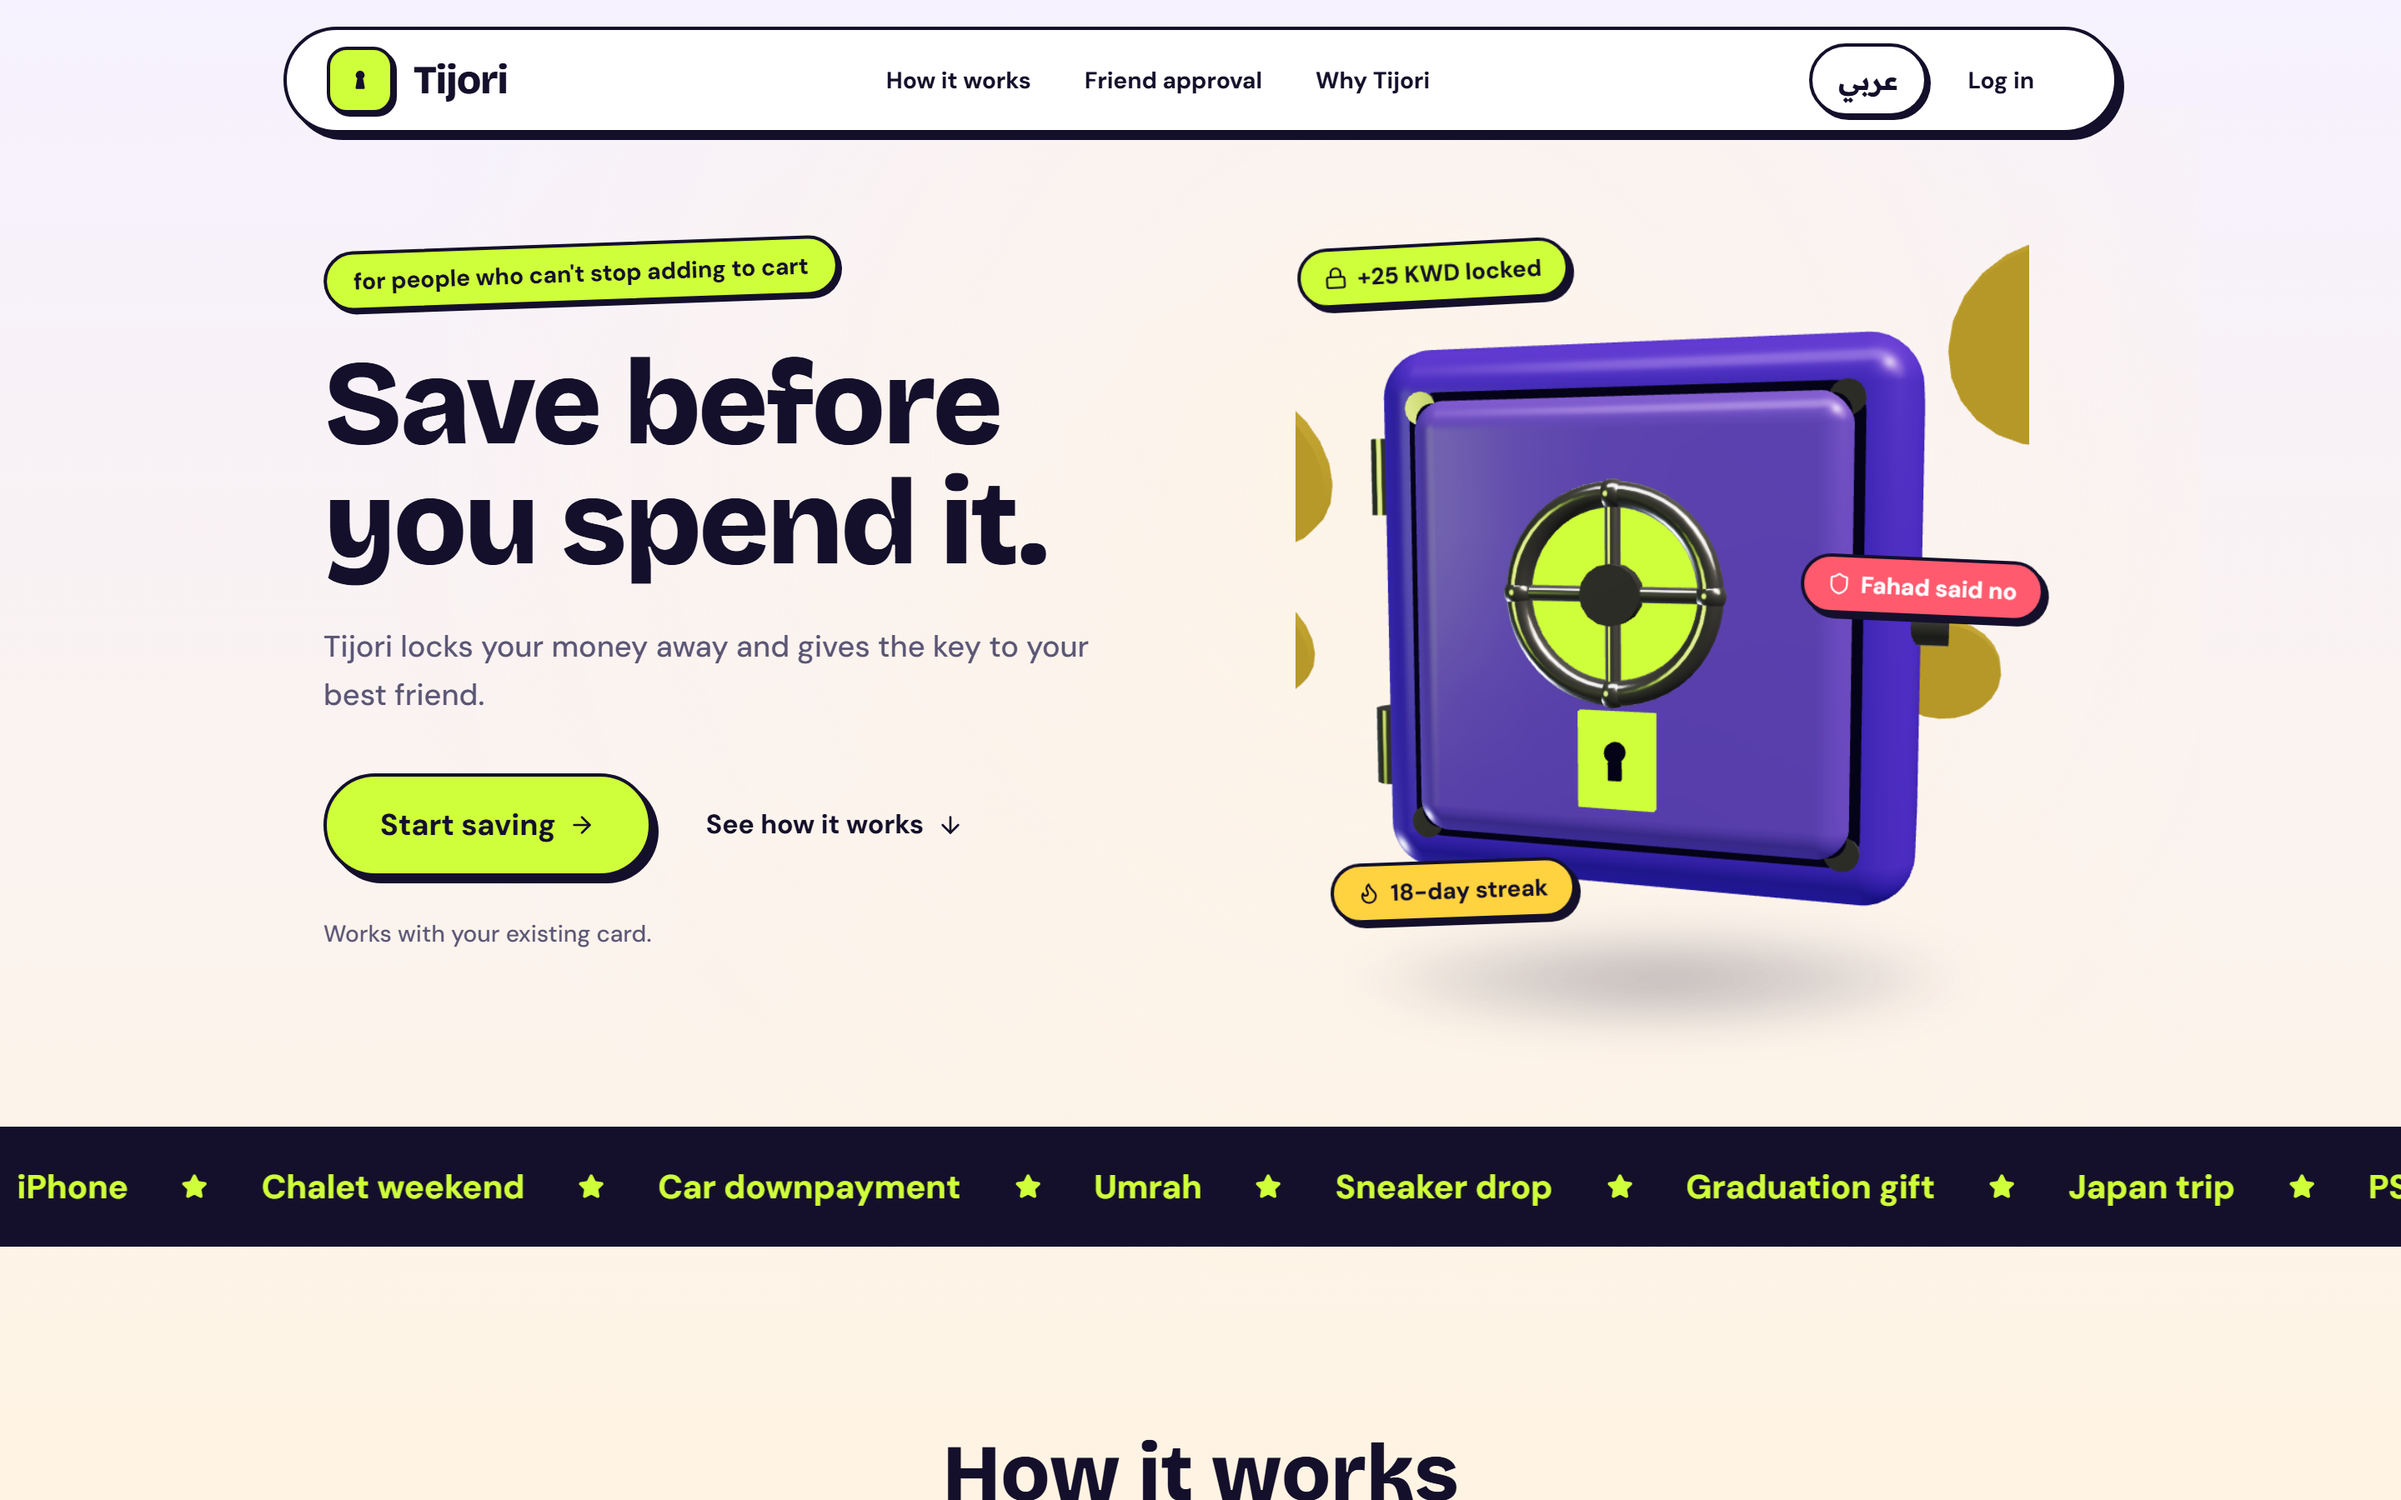
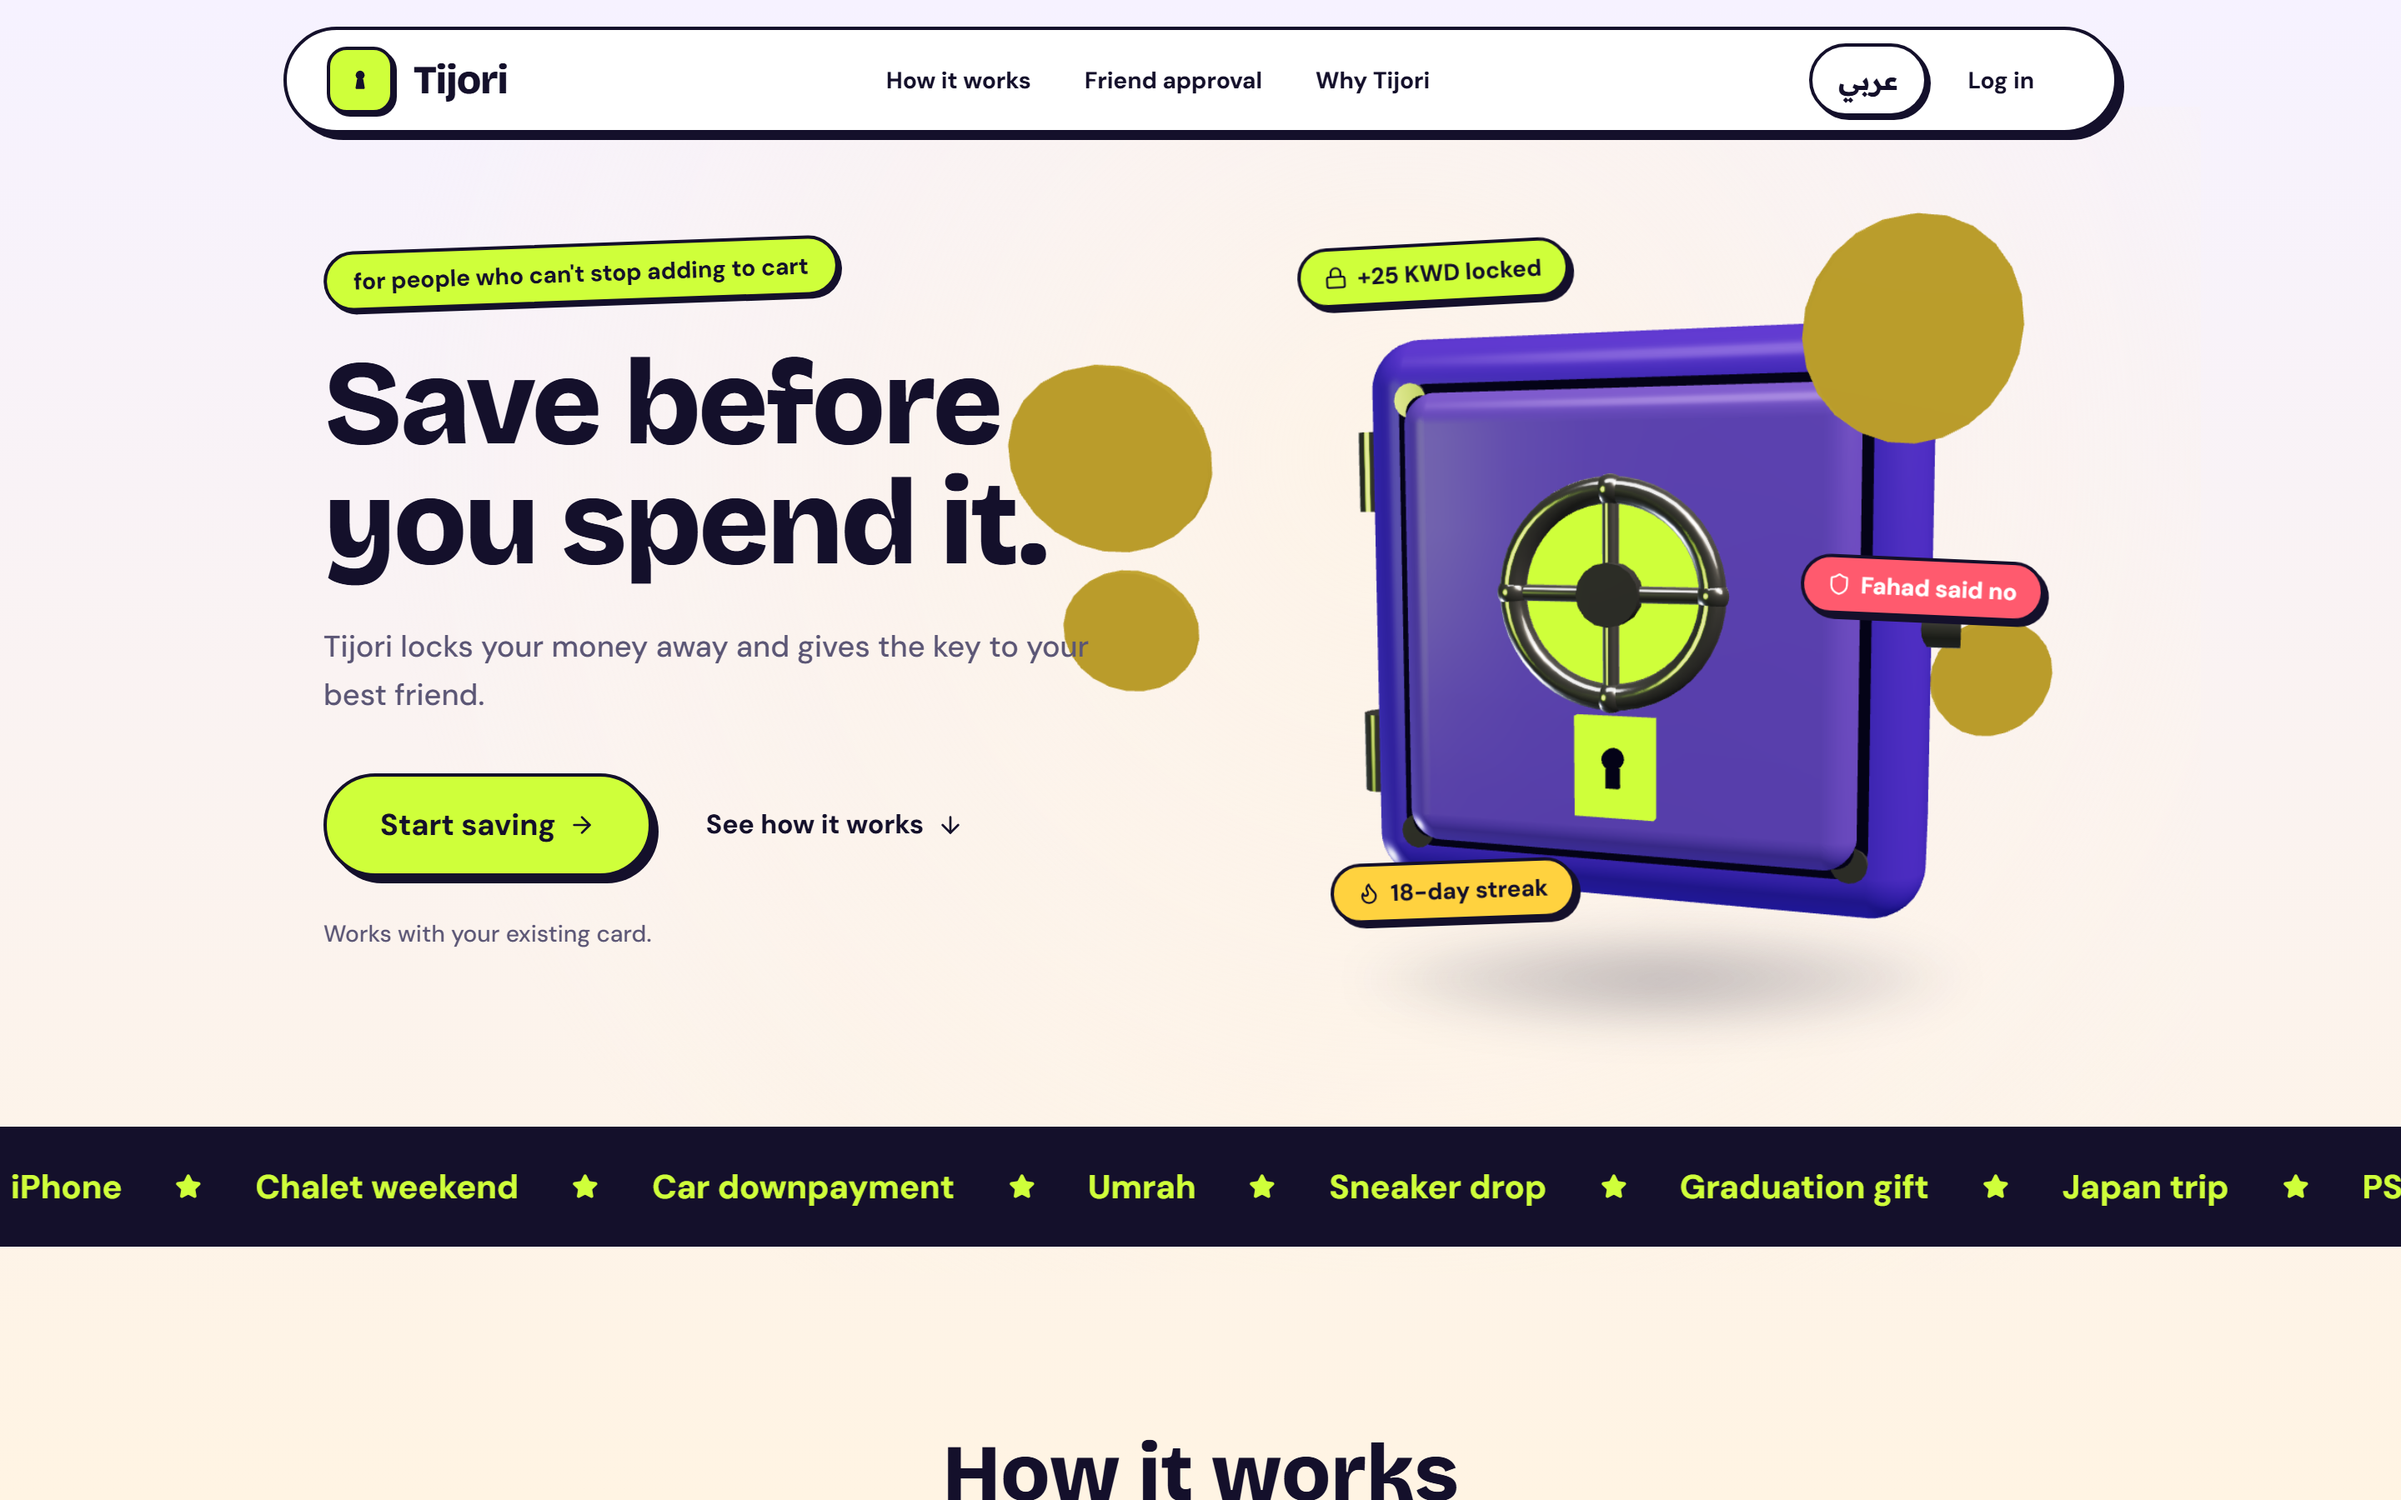
fix(landing): extend 3D vault canvas behind hero text for unconstrained coin orbits

diff --git a/components/Vault3D.tsx b/components/Vault3D.tsx
@@ -9,25 +9,36 @@ import VaultFallback from "./VaultFallback";
 interface VaultSceneProps {
   scrollProgress: number;
   isTouchDevice: boolean;
+  isRTL: boolean;
   onVaultClick: () => void;
 }
 
-function VaultMesh({ scrollProgress, isTouchDevice, onVaultClick }: VaultSceneProps) {
+function VaultMesh({ scrollProgress, isTouchDevice, isRTL, onVaultClick }: VaultSceneProps) {
   const groupRef = useRef<THREE.Group>(null);
   const wheelGroupRef = useRef<THREE.Group>(null);
   const coinsRef = useRef<THREE.Group[]>([]);
   const clickBonusRotRef = useRef<number>(0);
   const targetClickBonusRotRef = useRef<number>(0);
+  const pointerPosRef = useRef({ x: 0, y: 0 });
+
+  useEffect(() => {
+    const handlePointerMove = (e: PointerEvent) => {
+      pointerPosRef.current.x = (e.clientX / window.innerWidth) * 2 - 1;
+      pointerPosRef.current.y = -(e.clientY / window.innerHeight) * 2 - 1;
+    };
+    window.addEventListener("pointermove", handlePointerMove, { passive: true });
+    return () => window.removeEventListener("pointermove", handlePointerMove);
+  }, []);
 
   // 6 Orbiting Gold Coins config (radius 0.35, loop in FRONT and BEHIND the vault)
   const coinsConfig = useMemo(
     () => [
-      { radiusX: 2.3, speed: 0.7, offset: 0.0, y: 0.75, zAmplitude: 1.7 },
-      { radiusX: 2.5, speed: -0.65, offset: 1.05, y: -0.45, zAmplitude: 1.8 },
-      { radiusX: 2.2, speed: 0.8, offset: 2.1, y: 0.2, zAmplitude: 1.65 },
-      { radiusX: 2.4, speed: -0.75, offset: 3.15, y: 0.95, zAmplitude: 1.75 },
-      { radiusX: 2.55, speed: 0.6, offset: 4.2, y: -0.85, zAmplitude: 1.85 },
-      { radiusX: 2.25, speed: -0.7, offset: 5.25, y: -0.15, zAmplitude: 1.7 },
+      { radiusX: 2.7, speed: 0.65, offset: 0.0, y: 0.75, zAmplitude: 1.75 },
+      { radiusX: 3.1, speed: -0.6, offset: 1.05, y: -0.45, zAmplitude: 1.85 },
+      { radiusX: 2.5, speed: 0.75, offset: 2.1, y: 0.2, zAmplitude: 1.65 },
+      { radiusX: 2.9, speed: -0.7, offset: 3.15, y: 0.95, zAmplitude: 1.8 },
+      { radiusX: 3.2, speed: 0.55, offset: 4.2, y: -0.85, zAmplitude: 1.9 },
+      { radiusX: 2.6, speed: -0.65, offset: 5.25, y: -0.15, zAmplitude: 1.7 },
     ],
     []
   );
@@ -52,8 +63,10 @@ function VaultMesh({ scrollProgress, isTouchDevice, onVaultClick }: VaultScenePr
         groupRef.current.rotation.y = -0.25 + Math.sin(t * 0.8) * 0.07;
         groupRef.current.rotation.x = 0.08 + Math.cos(t * 0.6) * 0.04;
       } else {
-        const targetRotY = -0.25 + THREE.MathUtils.clamp(state.pointer.x * 0.1396, -0.1396, 0.1396);
-        const targetRotX = 0.08 - THREE.MathUtils.clamp(state.pointer.y * 0.1396, -0.1396, 0.1396);
+        const px = pointerPosRef.current.x !== 0 ? pointerPosRef.current.x : state.pointer.x;
+        const py = pointerPosRef.current.y !== 0 ? pointerPosRef.current.y : state.pointer.y;
+        const targetRotY = -0.25 + THREE.MathUtils.clamp(px * 0.1396, -0.1396, 0.1396);
+        const targetRotX = 0.08 - THREE.MathUtils.clamp(py * 0.1396, -0.1396, 0.1396);
         groupRef.current.rotation.y = THREE.MathUtils.lerp(groupRef.current.rotation.y, targetRotY, 0.07);
         groupRef.current.rotation.x = THREE.MathUtils.lerp(groupRef.current.rotation.x, targetRotX, 0.07);
       }
@@ -72,11 +85,15 @@ function VaultMesh({ scrollProgress, isTouchDevice, onVaultClick }: VaultScenePr
     }
 
     // 4. 6 Orbiting & spinning gold coins
+    // On desktop, shift center of orbit slightly towards the text side so coins swoop deeper behind text
+    const isDesktop = state.size.width >= 768;
+    const shiftX = isDesktop ? (isRTL ? 0.5 : -0.5) : 0;
+
     coinsConfig.forEach((cfg, i) => {
       const coinMesh = coinsRef.current[i];
       if (!coinMesh) return;
       const angle = t * cfg.speed + cfg.offset;
-      coinMesh.position.x = Math.cos(angle) * cfg.radiusX;
+      coinMesh.position.x = Math.cos(angle) * cfg.radiusX + shiftX;
       // z moves in front of (z > 0.8) and behind (z < -0.65) the vault
       coinMesh.position.z = Math.sin(angle) * cfg.zAmplitude;
       coinMesh.position.y = cfg.y + Math.sin(t * 1.6 + i) * 0.09;
@@ -219,7 +236,13 @@ function VaultMesh({ scrollProgress, isTouchDevice, onVaultClick }: VaultScenePr
   );
 }
 
-export default function Vault3D({ onVaultClick = () => {} }: { onVaultClick?: () => void }) {
+export default function Vault3D({
+  isRTL = false,
+  onVaultClick = () => {},
+}: {
+  isRTL?: boolean;
+  onVaultClick?: () => void;
+}) {
   const [scrollProgress, setScrollProgress] = useState(0);
   const [isTouchDevice, setIsTouchDevice] = useState(false);
   const [inView, setInView] = useState(true);
@@ -294,8 +317,8 @@ export default function Vault3D({ onVaultClick = () => {} }: { onVaultClick?: ()
         }}
       />
 
-      {/* 3D Canvas: container ~20% larger, overflow visible */}
-      <div className="w-[360px] sm:w-[480px] h-[340px] sm:h-[480px] relative z-10 overflow-visible flex items-center justify-center">
+      {/* 3D Canvas: extended behind text on desktop so coin movement is unconstrained */}
+      <div className="w-[360px] sm:w-[520px] lg:w-[960px] xl:w-[1040px] h-[340px] sm:h-[480px] lg:h-[500px] absolute left-1/2 top-1/2 -translate-x-1/2 -translate-y-1/2 z-0 overflow-visible flex items-center justify-center pointer-events-auto">
         <Canvas
           camera={{ position: [0, 0, 5.2], fov: 42 }}
           dpr={[1, 1.75]}
@@ -341,6 +364,7 @@ export default function Vault3D({ onVaultClick = () => {} }: { onVaultClick?: ()
           <VaultMesh
             scrollProgress={scrollProgress}
             isTouchDevice={isTouchDevice}
+            isRTL={isRTL}
             onVaultClick={onVaultClick}
           />
         </Canvas>

diff --git a/app/page.tsx b/app/page.tsx
@@ -134,7 +134,7 @@ export default function LandingPage() {
       >
         <div className="flex flex-col-reverse lg:flex-row items-center justify-between gap-10 lg:gap-14">
           {/* Start Column: Headline, Sticker, Sub, CTAs */}
-          <div className="w-full lg:w-1/2 space-y-6 text-center lg:text-start">
+          <div className="w-full lg:w-1/2 space-y-6 text-center lg:text-start relative z-10">
             {/* Rotated Sticker above Headline */}
             <div className="inline-block transform -rotate-2 hover:rotate-0 transition-transform">
               <span className="inline-flex items-center gap-2 px-4 py-1.5 rounded-full bg-lime border-2 border-ink shadow-[2px_2px_0_var(--ink)] text-sm font-bold text-ink">
@@ -181,13 +181,13 @@ export default function LandingPage() {
           {/* End Column: 3D Vault with 3 Floating Bobbing HTML Stickers */}
           <div className="w-full lg:w-1/2 flex items-center justify-center relative min-h-[300px] sm:min-h-[460px] overflow-visible">
             {/* The 3D Vault Container */}
-            <div className="w-full max-w-[340px] sm:max-w-[440px] h-[300px] sm:h-[460px] overflow-visible">
-              <VaultContainer onVaultClick={handleVaultClick} />
+            <div className="w-full max-w-[340px] sm:max-w-[440px] h-[300px] sm:h-[460px] overflow-visible relative">
+              <VaultContainer isRTL={isArabic} onVaultClick={handleVaultClick} />
             </div>
 
             {/* Sticker A: Lime (+25 KWD locked) - positioned strictly inside container */}
             <div
-              className={`absolute top-[4%] start-[2%] sm:start-[6%] z-10 animate-sticker-bob-1 pointer-events-none transition-transform duration-300 ${
+              className={`absolute top-[4%] start-[2%] sm:start-[6%] z-20 animate-sticker-bob-1 pointer-events-none transition-transform duration-300 ${
                 stickersPulsing ? "scale-110" : ""
               }`}
               style={{ "--rot": "-3deg" } as React.CSSProperties}
@@ -200,7 +200,7 @@ export default function LandingPage() {
 
             {/* Sticker B: Coral (Fahad said no) - positioned strictly inside container */}
             <div
-              className={`absolute top-[46%] end-[2%] sm:end-[4%] z-10 animate-sticker-bob-2 pointer-events-none transition-transform duration-300 ${
+              className={`absolute top-[46%] end-[2%] sm:end-[4%] z-20 animate-sticker-bob-2 pointer-events-none transition-transform duration-300 ${
                 stickersPulsing ? "scale-110" : ""
               }`}
               style={{ "--rot": "2.5deg" } as React.CSSProperties}
@@ -213,7 +213,7 @@ export default function LandingPage() {
 
             {/* Sticker C: Sun (18-day streak) - positioned strictly inside container */}
             <div
-              className={`absolute bottom-[6%] start-[4%] sm:start-[10%] z-10 animate-sticker-bob-3 pointer-events-none transition-transform duration-300 ${
+              className={`absolute bottom-[6%] start-[4%] sm:start-[10%] z-20 animate-sticker-bob-3 pointer-events-none transition-transform duration-300 ${
                 stickersPulsing ? "scale-110" : ""
               }`}
               style={{ "--rot": "-2deg" } as React.CSSProperties}

diff --git a/components/VaultContainer.tsx b/components/VaultContainer.tsx
@@ -9,7 +9,13 @@ const Vault3D = dynamic(() => import("./Vault3D"), {
   loading: () => <VaultFallback />,
 });
 
-export default function VaultContainer({ onVaultClick }: { onVaultClick?: () => void }) {
+export default function VaultContainer({
+  isRTL,
+  onVaultClick,
+}: {
+  isRTL?: boolean;
+  onVaultClick?: () => void;
+}) {
   const [prefersReducedMotion, setPrefersReducedMotion] = useState(false);
   const [mounted, setMounted] = useState(false);
 
@@ -30,5 +36,5 @@ export default function VaultContainer({ onVaultClick }: { onVaultClick?: () => 
     return <VaultFallback onVaultClick={onVaultClick} />;
   }
 
-  return <Vault3D onVaultClick={onVaultClick} />;
+  return <Vault3D isRTL={isRTL} onVaultClick={onVaultClick} />;
 }
